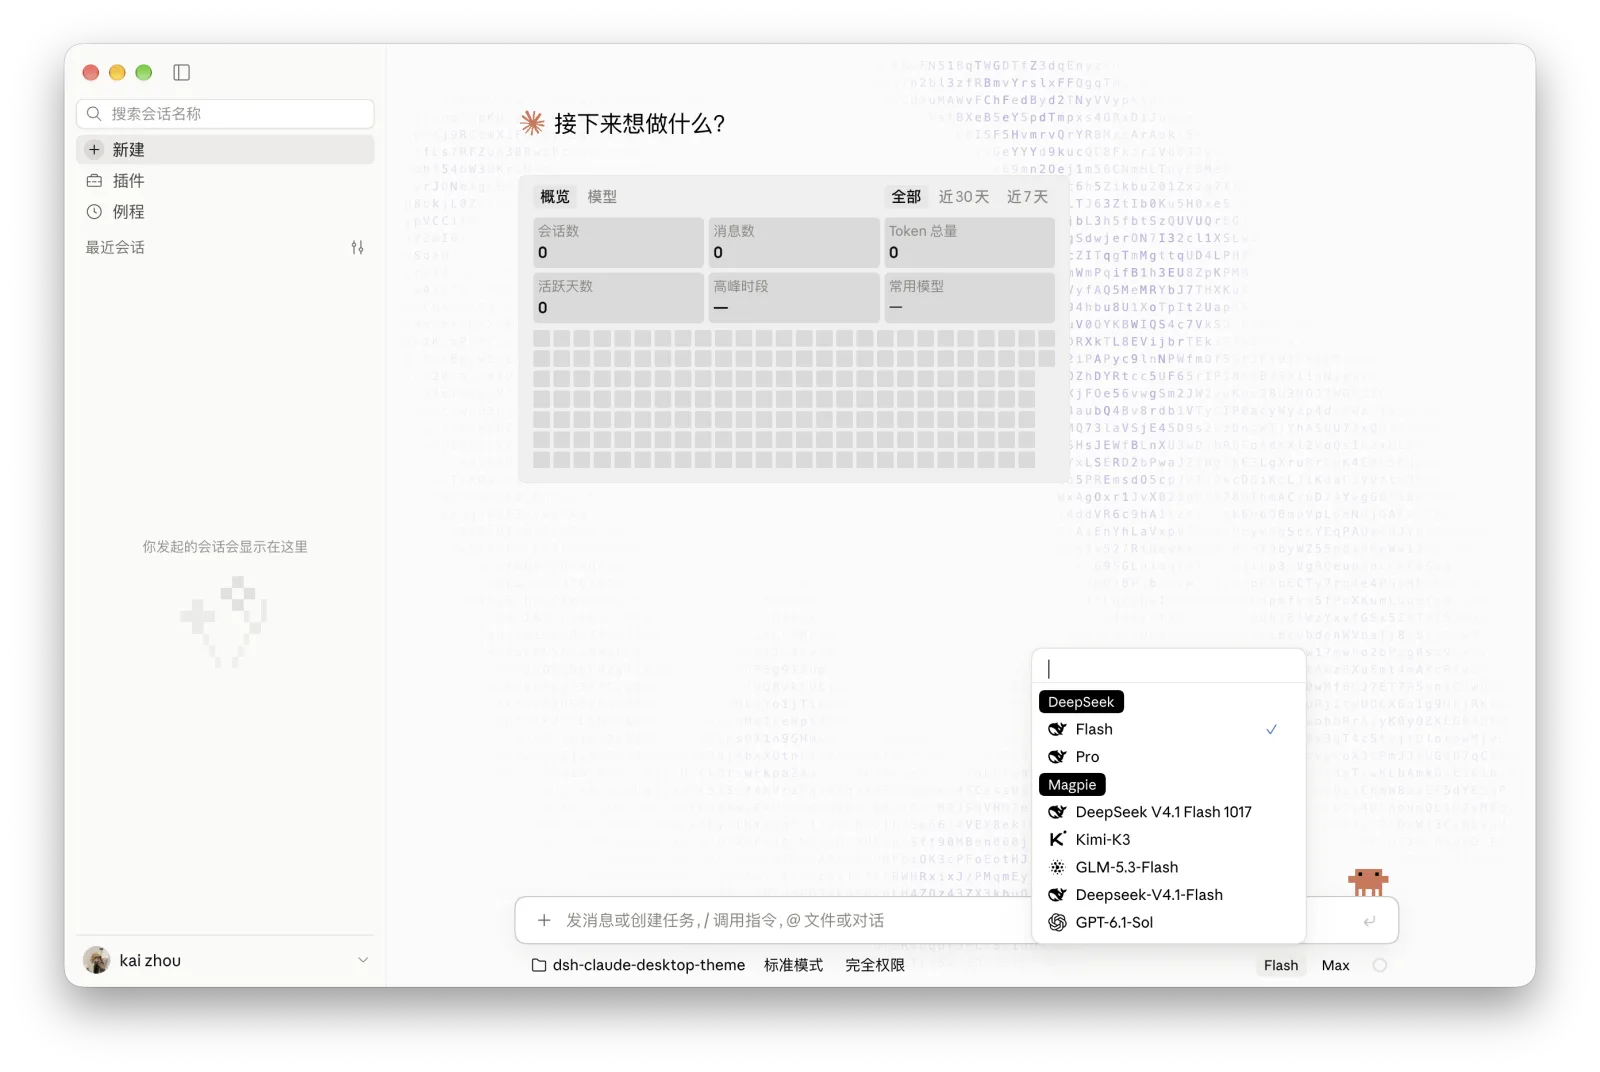
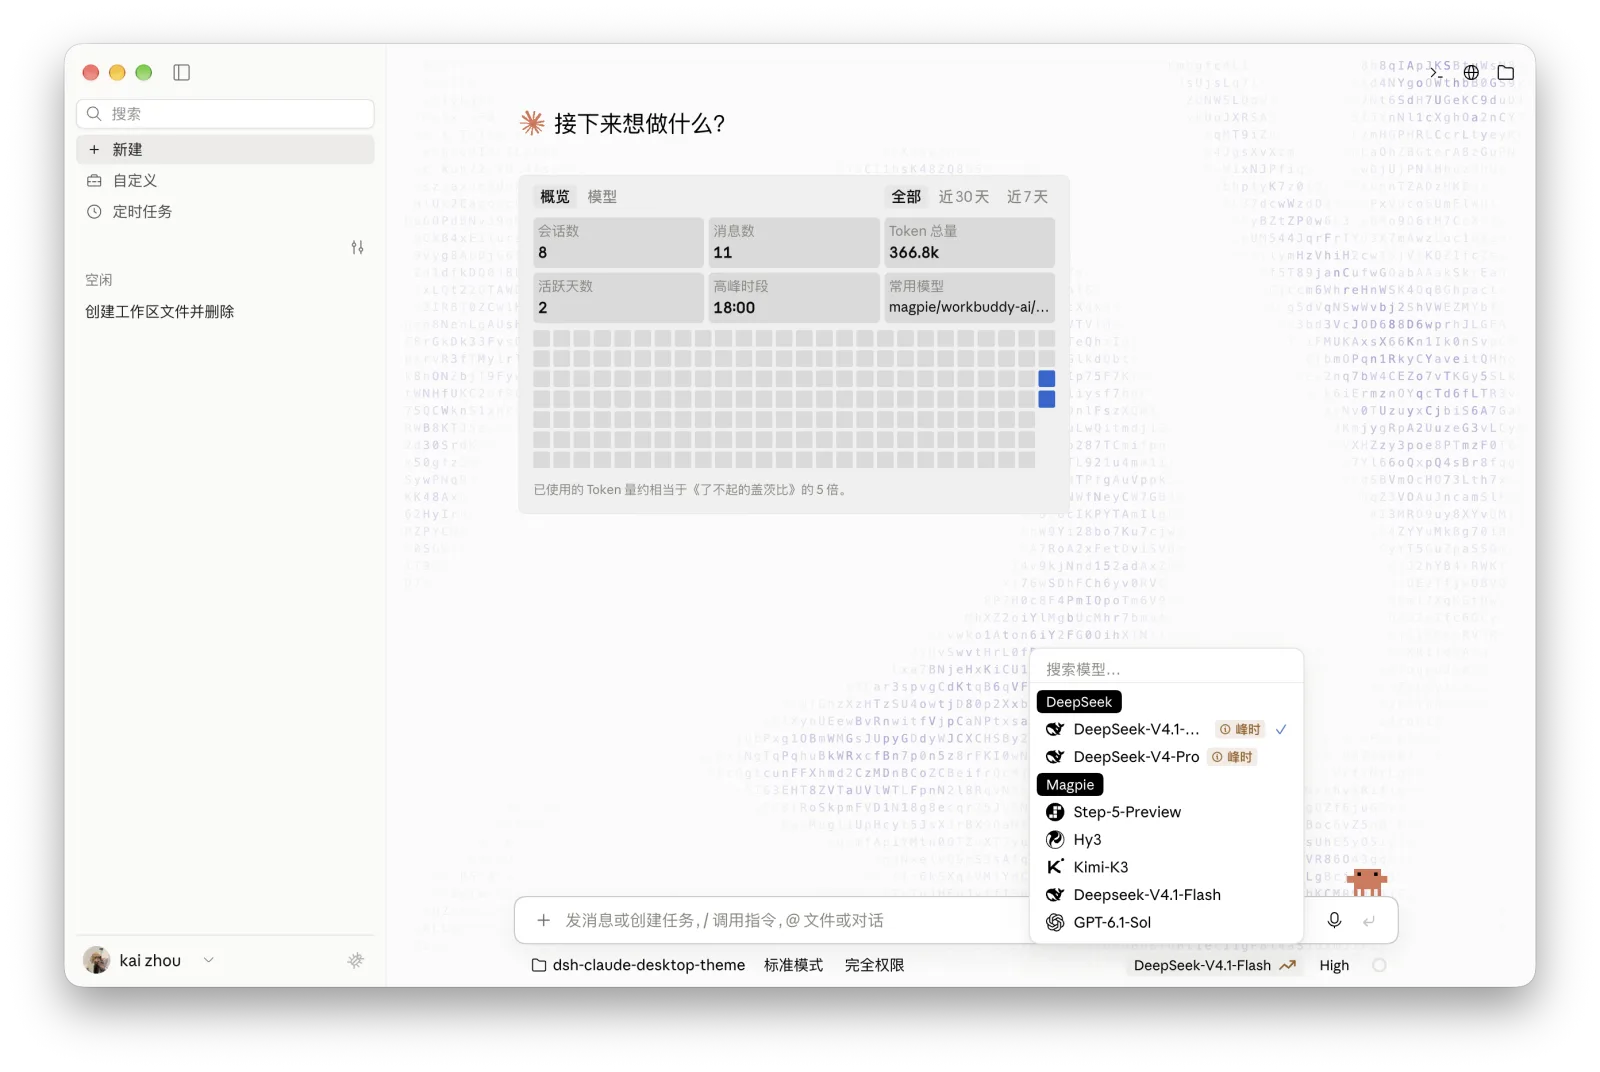
docs: refresh screenshots and add balance and pricing previews

diff --git a/README.md b/README.md
@@ -31,31 +31,25 @@
 
 ## 界面预览
 
-截图为 macOS、默认配色与 Geist 字体，统计卡片开启，状态栏统计读数保持默认关闭。两种宠物的点击回应与 Effort 拉到底的动效见下一节。
+以下展示 macOS 浅色与深色主题的完整窗口。首页使用 Claude 像素宠物与问候样式，开启水波纹和统计卡片；会话页展示工具调用摘要与文件栏。两种宠物的点击回应与 Effort 拉到底的动效见下一节。
 
 | 界面 | 浅色 | 深色 |
 | --- | --- | --- |
-| 新会话页 | ![新会话页 · 浅色](https://raw.githubusercontent.com/zkforge/dsh-claude-desktop-theme/main/assets/screenshots/new-session-light.webp) | ![新会话页 · 深色](https://raw.githubusercontent.com/zkforge/dsh-claude-desktop-theme/main/assets/screenshots/new-session-dark.webp) |
+| 新会话页 | ![新会话页 · 浅色](https://raw.githubusercontent.com/zkforge/dsh-claude-desktop-theme/main/assets/screenshots/fullscreen-light.webp) | ![新会话页 · 深色](https://raw.githubusercontent.com/zkforge/dsh-claude-desktop-theme/main/assets/screenshots/fullscreen-dark.webp) |
 | 会话页 | ![会话页 · 浅色](https://raw.githubusercontent.com/zkforge/dsh-claude-desktop-theme/main/assets/screenshots/chat-light.webp) | ![会话页 · 深色](https://raw.githubusercontent.com/zkforge/dsh-claude-desktop-theme/main/assets/screenshots/chat-dark.webp) |
+| 模型选单展开 | ![模型选单完整窗口 · 浅色](https://raw.githubusercontent.com/zkforge/dsh-claude-desktop-theme/main/assets/screenshots/model-menu-fullscreen-light.webp) | ![模型选单完整窗口 · 深色](https://raw.githubusercontent.com/zkforge/dsh-claude-desktop-theme/main/assets/screenshots/model-menu-fullscreen-dark.webp) |
 | 插件设置 | ![插件设置 · 浅色](https://raw.githubusercontent.com/zkforge/dsh-claude-desktop-theme/main/assets/screenshots/settings-light.webp) | ![插件设置 · 深色](https://raw.githubusercontent.com/zkforge/dsh-claude-desktop-theme/main/assets/screenshots/settings-dark.webp) |
-
-### 完整窗口展示
-
-以下为 macOS 完整窗口截图，使用 Claude 像素宠物与首页问候样式，开启主页水波纹，保留统计卡片。
-
-| 界面 | 浅色 | 深色 |
-| --- | --- | --- |
-| 新会话页 · 完整窗口 | ![新会话页完整窗口 · 浅色](https://raw.githubusercontent.com/zkforge/dsh-claude-desktop-theme/main/assets/screenshots/fullscreen-light.webp) | ![新会话页完整窗口 · 深色](https://raw.githubusercontent.com/zkforge/dsh-claude-desktop-theme/main/assets/screenshots/fullscreen-dark.webp) |
-| 模型选单展开 · 完整窗口 | ![模型选单完整窗口 · 浅色](https://raw.githubusercontent.com/zkforge/dsh-claude-desktop-theme/main/assets/screenshots/model-menu-fullscreen-light.webp) | ![模型选单完整窗口 · 深色](https://raw.githubusercontent.com/zkforge/dsh-claude-desktop-theme/main/assets/screenshots/model-menu-fullscreen-dark.webp) |
 
 ### 组件特写
 
 | 组件 | 浅色 | 深色 |
 | --- | --- | --- |
 | 模型选择器 | ![模型选择器 · 浅色](https://raw.githubusercontent.com/zkforge/dsh-claude-desktop-theme/main/assets/screenshots/model-picker-light.webp) | ![模型选择器 · 深色](https://raw.githubusercontent.com/zkforge/dsh-claude-desktop-theme/main/assets/screenshots/model-picker-dark.webp) |
+| 模型参考价与峰谷提示 | ![模型参考价 · 浅色](https://raw.githubusercontent.com/zkforge/dsh-claude-desktop-theme/main/assets/screenshots/model-pricing-light.webp) | ![模型参考价 · 深色](https://raw.githubusercontent.com/zkforge/dsh-claude-desktop-theme/main/assets/screenshots/model-pricing-dark.webp) |
+| DeepSeek 余额 | ![余额组件 · 浅色](https://raw.githubusercontent.com/zkforge/dsh-claude-desktop-theme/main/assets/screenshots/account-balance-light.webp) | ![余额组件 · 深色](https://raw.githubusercontent.com/zkforge/dsh-claude-desktop-theme/main/assets/screenshots/account-balance-dark.webp) |
 | 上下文圆环与分解面板 | ![上下文圆环与分解面板 · 浅色](https://raw.githubusercontent.com/zkforge/dsh-claude-desktop-theme/main/assets/screenshots/context-panel-light.webp) | ![上下文圆环与分解面板 · 深色](https://raw.githubusercontent.com/zkforge/dsh-claude-desktop-theme/main/assets/screenshots/context-panel-dark.webp) |
 
-模型选择器与上下文分解面板均为组件局部截图，使用演示数据。模型选择器展示供应商分组、模型图标与当前选中项，可选模型和 Effort 档位以 DSH 实际提供的目录为准；上下文面板展示分类占比与展开的 MCP 工具明细，右下角保留用量圆环入口。
+以下为真实组件的局部截图，使用演示数据。模型选择器展示供应商分组、模型图标、当前选中项与峰谷标签，价格悬浮卡片展示官方人民币参考价和切换倒计时；可选模型和 Effort 档位以 DSH 实际提供的目录为准。余额特写使用演示账号与金额，入口位于左下角账号菜单，悬停可查看充值与赠金明细，点击可刷新。上下文面板展示分类占比与展开的 MCP 工具明细，右下角保留用量圆环入口。
 
 ## 细节动效
 
